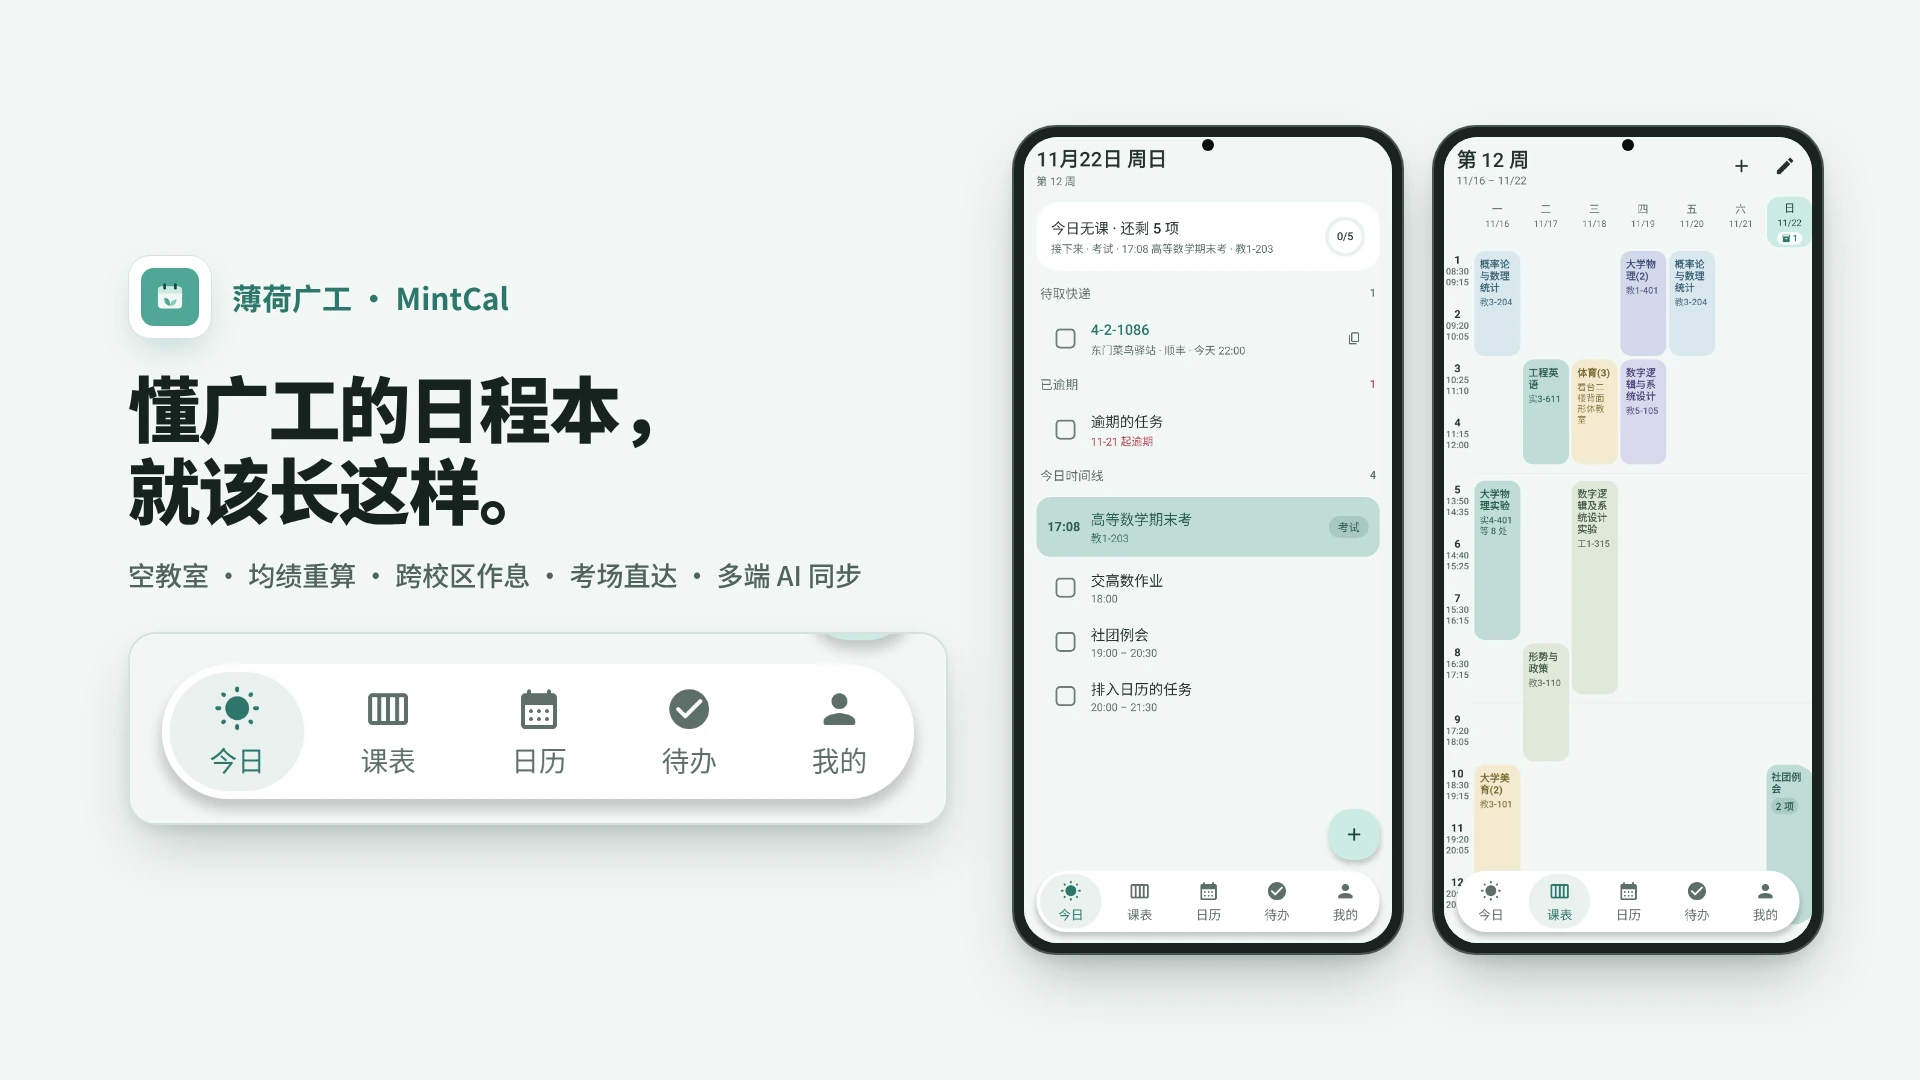
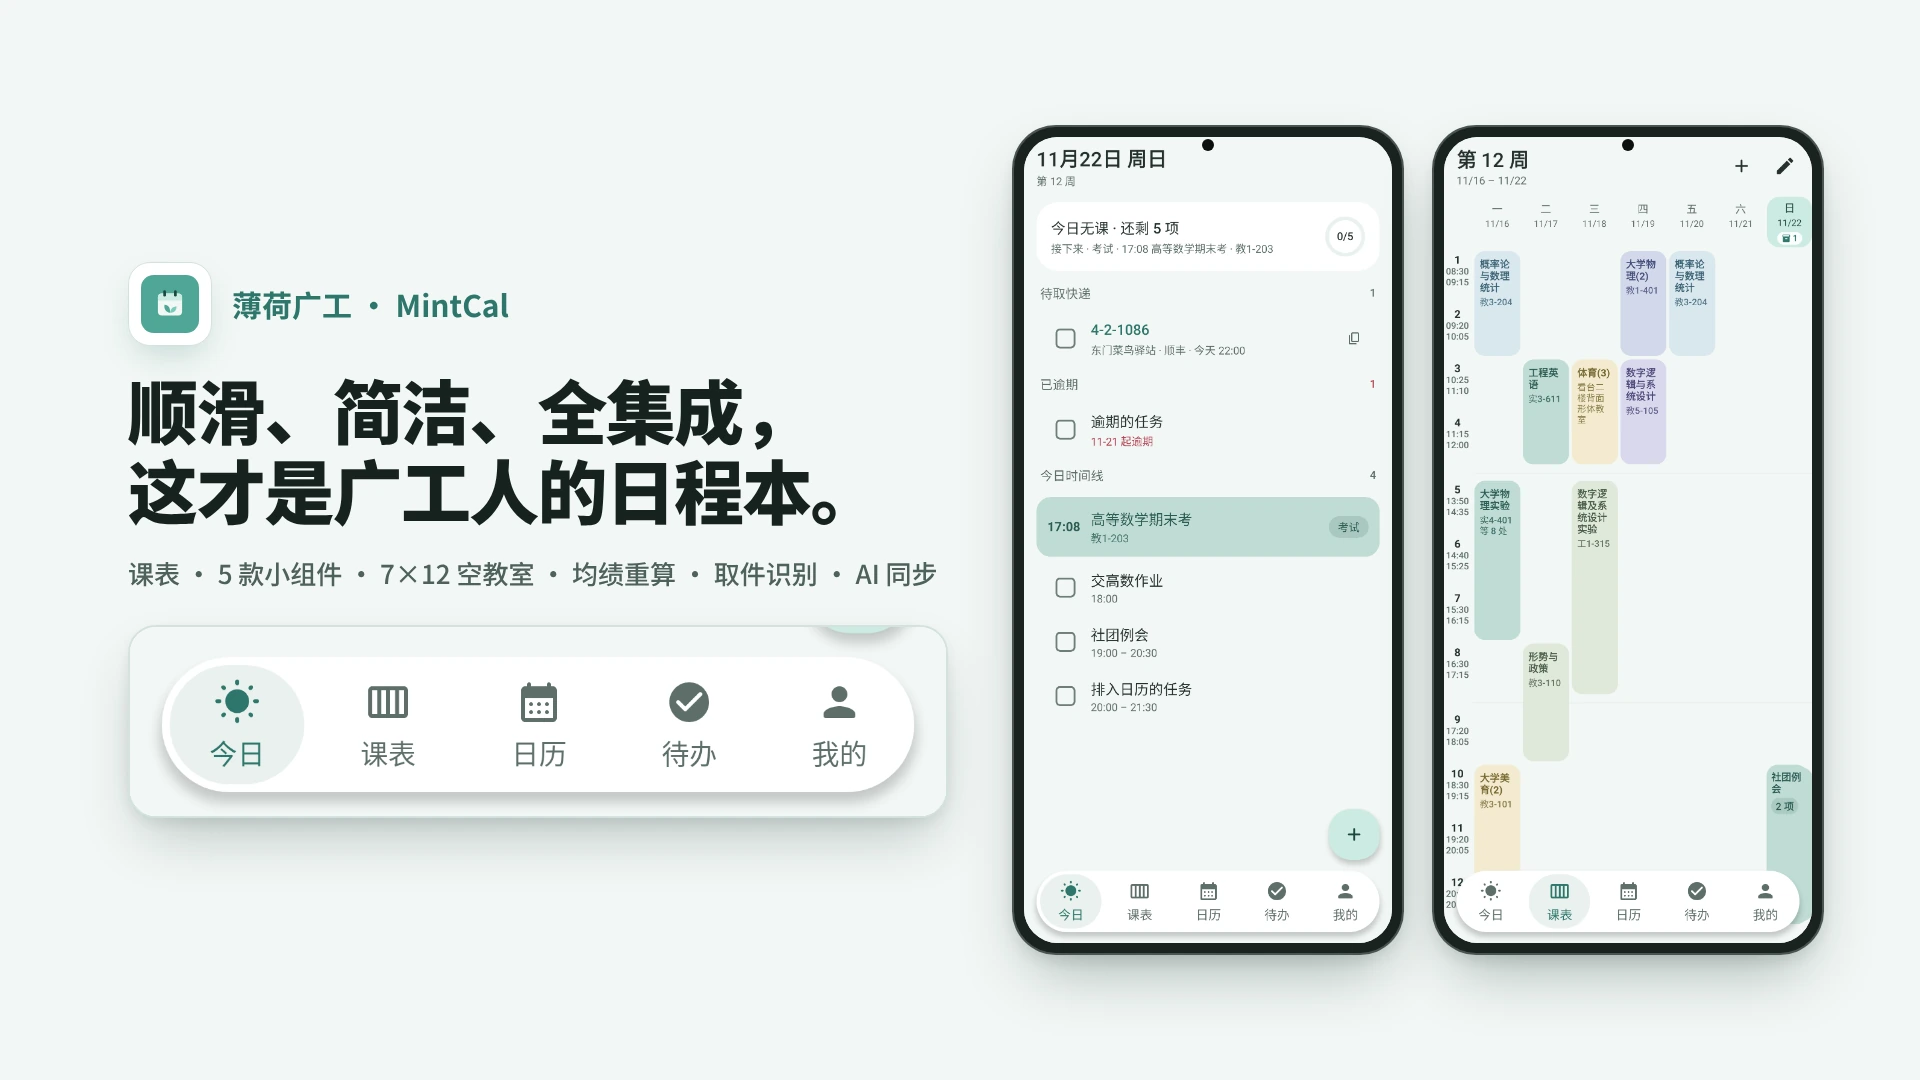
feat(landing): refocus hero and 40s promo on fluidity, all-in-one integration, and 5 widgets

diff --git a/landing/index.html b/landing/index.html
@@ -4,7 +4,7 @@
   <meta charset="utf-8">
   <meta name="viewport" content="width=device-width, initial-scale=1">
   <title>薄荷广工 MintGDUT</title>
-  <meta name="description" content="薄荷广工（MintGDUT）— 纯本地广工校园日程应用：空教室查询、7×12 教室周课表、GPA 筛选、跨校区作息、桌面考场小组件与多端同步。">
+  <meta name="description" content="薄荷广工（MintGDUT）— 极致顺滑、零广告的纯本地广工校园日程应用：5 款桌面小组件、空教室与 7×12 周网格框选、GPA 筛选、快递取件与多端 AI 同步。">
   <meta name="theme-color" content="#F2F7F5">
   <link rel="canonical" href="https://mintcal.xeed.ink/">
   <meta property="og:title" content="薄荷广工 MintGDUT">
@@ -47,7 +47,7 @@
           </a>
 
           <h1 class="display">课表、待办与取件，<br>安放在薄荷宣纸上</h1>
-          <p class="lead">纯本地广工校园日程 · 零广告 · 仅 <strong class="mono" id="heroLeadSize">3.83 MiB</strong>。集教务直连、7×12 空教室、GPA 实时重算、跨校区作息与多端同步于一身。</p>
+          <p class="lead">极简流畅 · 零广告 · 仅 <strong class="mono" id="heroLeadSize">3.83 MiB</strong>。将广工课表、7×12 空教室、GPA 核算、5 款桌面小组件与多端同步干净集成。</p>
 
           <div class="cta-row">
             <a class="btn btn-primary btn-lg" id="heroApkBtn" href="./downloads/MintCal-0.0.1-beta.7-arm64-v8a.apk">
@@ -225,7 +225,7 @@
       <div class="wrap">
         <div class="sec-head">
           <span class="sec-eyebrow">功能实录</span>
-          <h2 class="sec-title">40 秒看懂薄荷广工核心工作流</h2>
+          <h2 class="sec-title">40 秒看懂薄荷广工：顺滑、好用、全集成</h2>
           <p class="sec-desc">点击下方章节胶囊，直接跳转对应功能演示片段。</p>
         </div>
 
@@ -237,16 +237,16 @@
 
         <div class="chapter-row" id="demoChapters" role="group" aria-label="视频章节跳转">
           <button type="button" class="chapter-pill is-active" data-time="0">
-            <span class="mono">00:00</span> 痛点与概览
+            <span class="mono">00:00</span> 告别卡顿与拼凑
           </button>
           <button type="button" class="chapter-pill" data-time="5">
-            <span class="mono">00:05</span> 取件码与双色底栏
+            <span class="mono">00:05</span> 5 款桌面组件 · 丝滑双色
           </button>
-          <button type="button" class="chapter-pill" data-time="11">
-            <span class="mono">00:11</span> 空教室与放大框选
+          <button type="button" class="chapter-pill" data-time="12">
+            <span class="mono">00:12</span> 空教室 · 1:1 框选直建
           </button>
-          <button type="button" class="chapter-pill" data-time="20">
-            <span class="mono">00:20</span> 均绩/跨校区/考场组件
+          <button type="button" class="chapter-pill" data-time="22">
+            <span class="mono">00:22</span> 均绩体测 · 主题防杀一体
           </button>
           <button type="button" class="chapter-pill" data-time="30">
             <span class="mono">00:30</span> 局域网 Web 与 MCP
